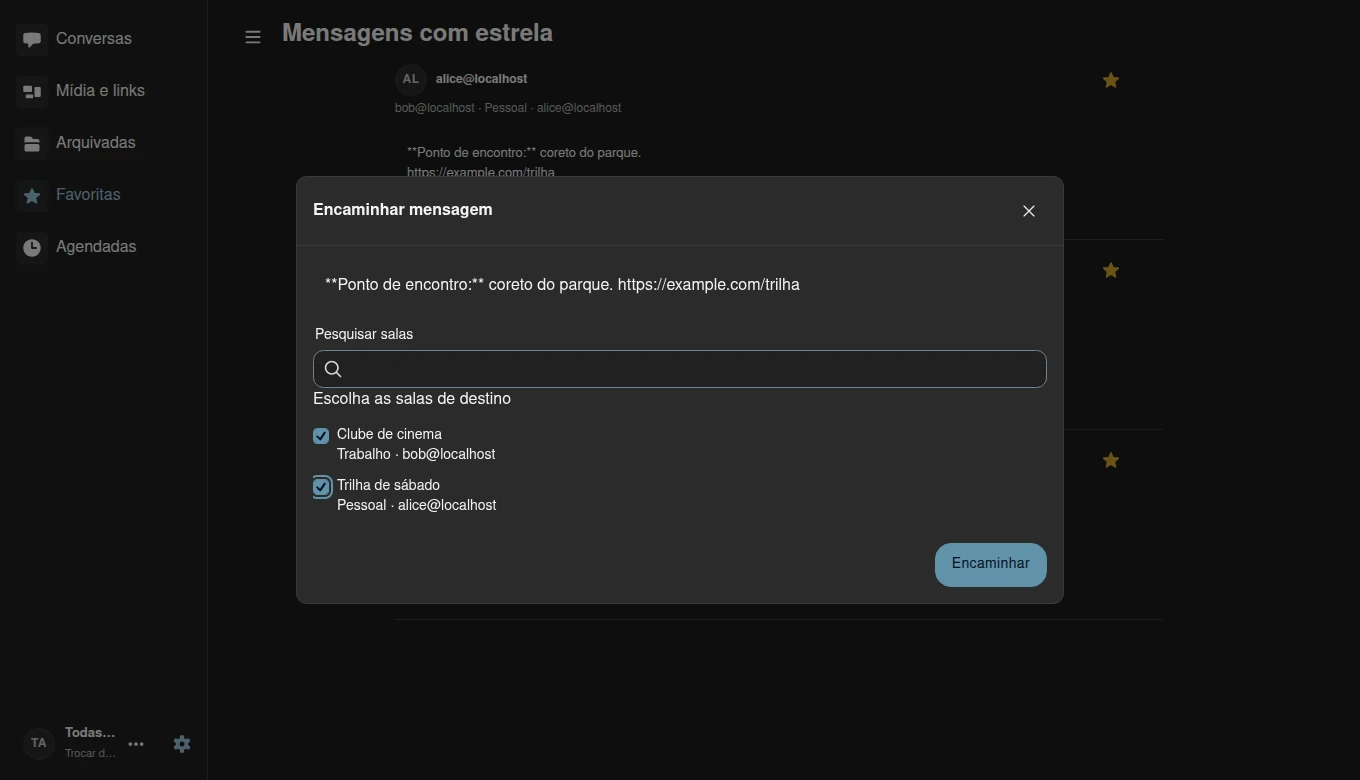
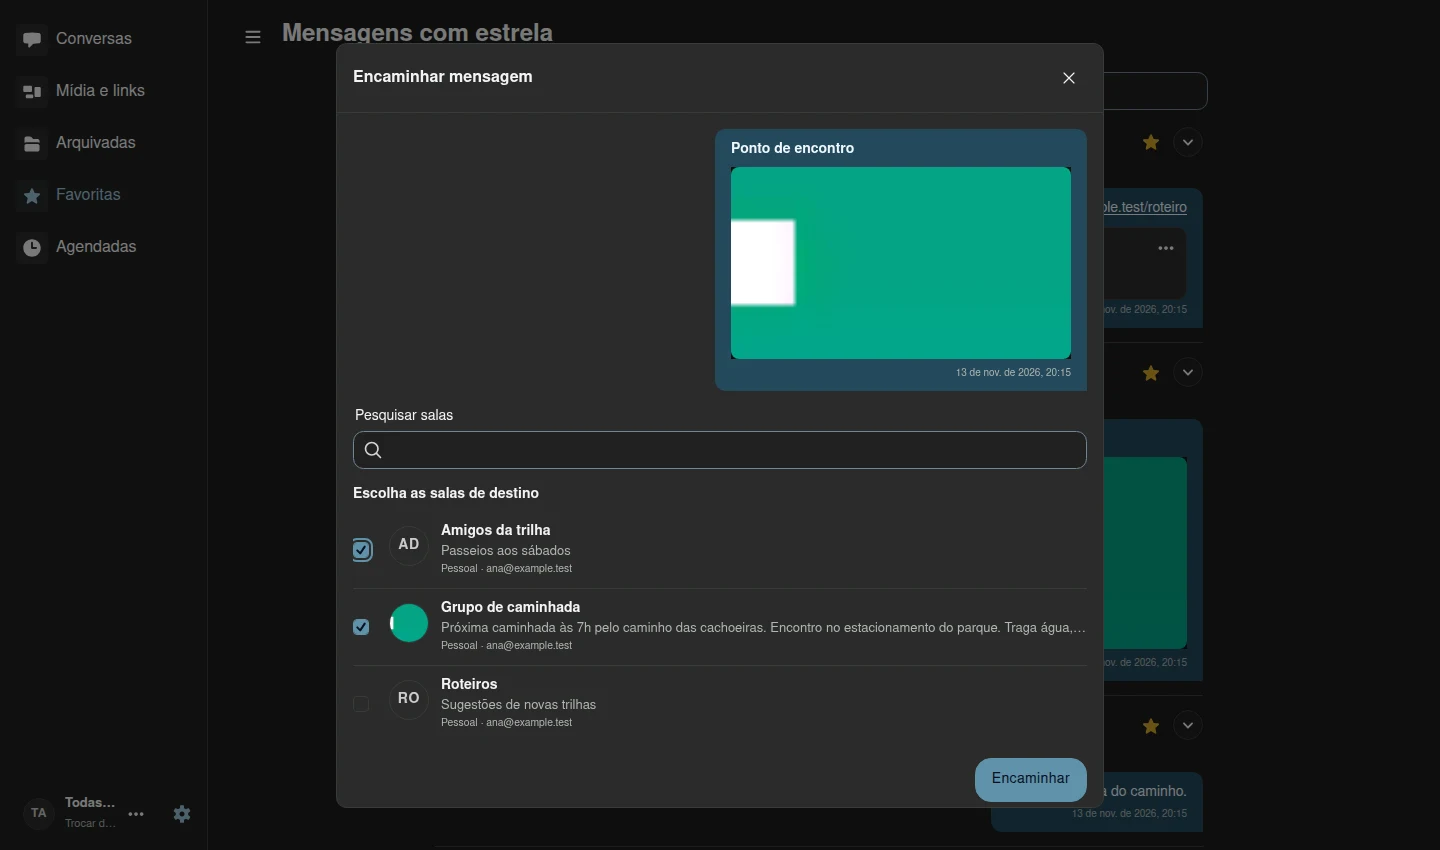
Document starred message search and forwarding previews

diff --git a/content/docs/manual/index.md b/content/docs/manual/index.md
@@ -62,11 +62,11 @@ Os atalhos **Mídia**, **Links** e **Documentos** abrem o catálogo com o mesmo 
 
 No menu da mensagem, escolha **Marcar mensagem com estrela**. Abra **Favoritas** na barra lateral para ver as mensagens marcadas em conversas diretas e salas, inclusive nas arquivadas. A lista segue a conta selecionada. Use **Todas as contas** no seletor para reunir as mensagens de todas elas.
 
-As mensagens aparecem em balões, com o texto formatado e as prévias da conversa. Selecione a prévia de uma imagem para ampliá-la.
+Use **Pesquisar mensagens favoritas** para buscar pelo texto, pelo remetente ou pela conversa de origem. As mensagens aparecem em balões, com o texto formatado e as prévias da conversa. Selecione a prévia de uma imagem para ampliá-la.
 
 No menu de cada resultado, use **Ir para a mensagem** para voltar à conversa de origem, **Copiar mensagem original** para copiar o texto ou **Encaminhar** para enviar uma cópia. Selecione a estrela para remover a mensagem da lista.
 
-![Seção Favoritas com balões de mensagem, uma prévia de link e uma imagem no corpo da mensagem.](imagens/mensagens-favoritas.webp "Mensagens favoritas")
+![Seção Favoritas com um campo de pesquisa, uma prévia de link e uma imagem no corpo da mensagem.](imagens/mensagens-favoritas.webp "Mensagens favoritas")
 
 [Ver a captura de Favoritas no tamanho original](imagens/mensagens-favoritas-original.webp)
 
@@ -74,11 +74,11 @@ A seção **Favoritas** da barra lateral está disponível na prévia de desenvo
 
 ## Encaminhar mensagens
 
-Abra **Encaminhar** no menu de uma mensagem em **Conversas**, **Favoritas** ou **Mídia e links**. Escolha uma ou mais salas e confirme em **Encaminhar**. O seletor mostra a conta de cada sala. Cada cópia é enviada pela conta da sala escolhida.
+Abra **Encaminhar** no menu de uma mensagem em **Conversas**, **Favoritas** ou **Mídia e links**. Confira a prévia no balão, escolha uma ou mais salas e confirme em **Encaminhar**. Você pode pesquisar na lista de destinos. Cada sala mostra a conta pela qual a cópia será enviada e exibe a foto e o tópico quando disponíveis.
 
 O Oiê copia o texto da mensagem e prepara os anexos para o novo envio. Se houver falha em um destino, confira o aviso ao lado da sala e use **Tentar novamente**. As salas cuja cópia já entrou na fila ficam marcadas.
 
-![Janela Encaminhar mensagem com duas salas selecionadas, uma da conta Pessoal e outra da conta Trabalho.](imagens/encaminhar-mensagem.webp "Selecionar salas para encaminhar")
+![Janela Encaminhar mensagem com uma imagem na prévia e duas salas selecionadas. Um dos tópicos aparece em uma linha com reticências.](imagens/encaminhar-mensagem.webp "Selecionar salas para encaminhar")
 
 [Ver a captura do encaminhamento no tamanho original](imagens/encaminhar-mensagem-original.webp)
 
